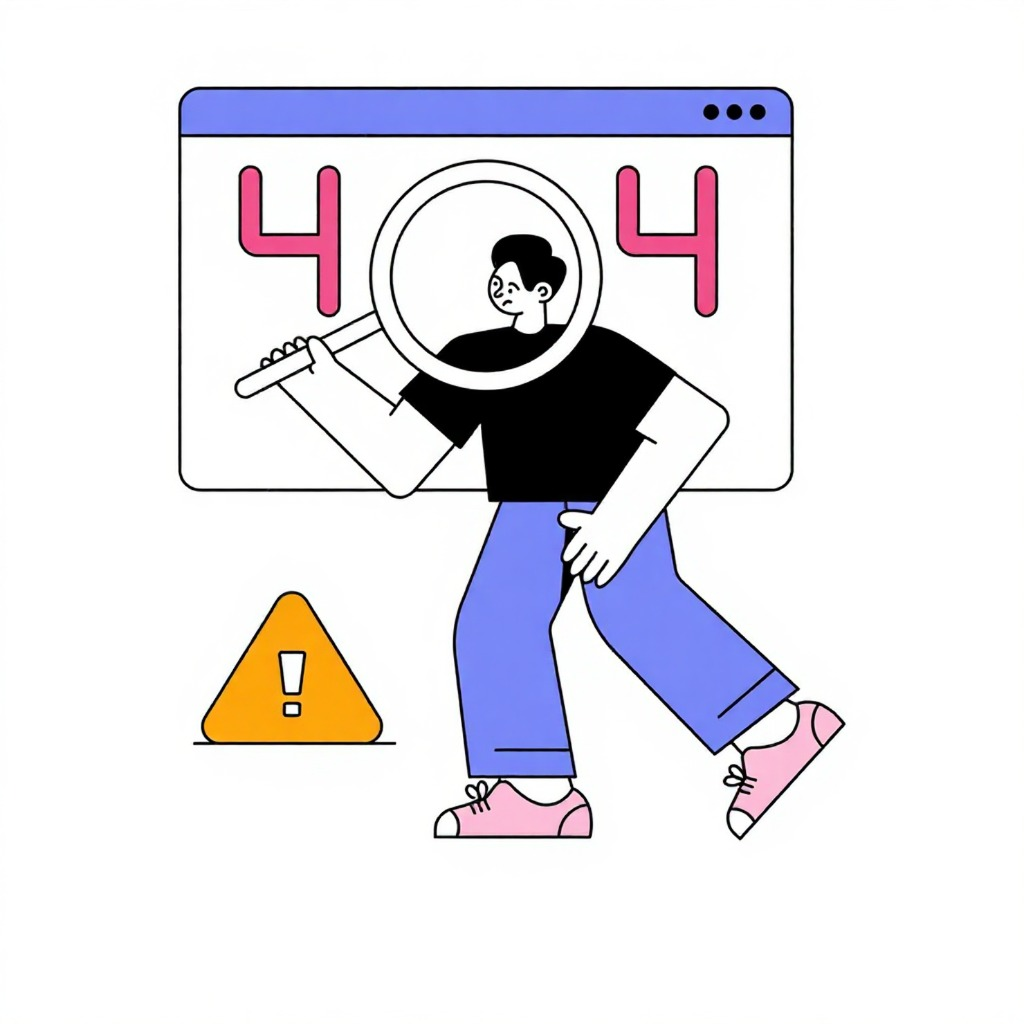
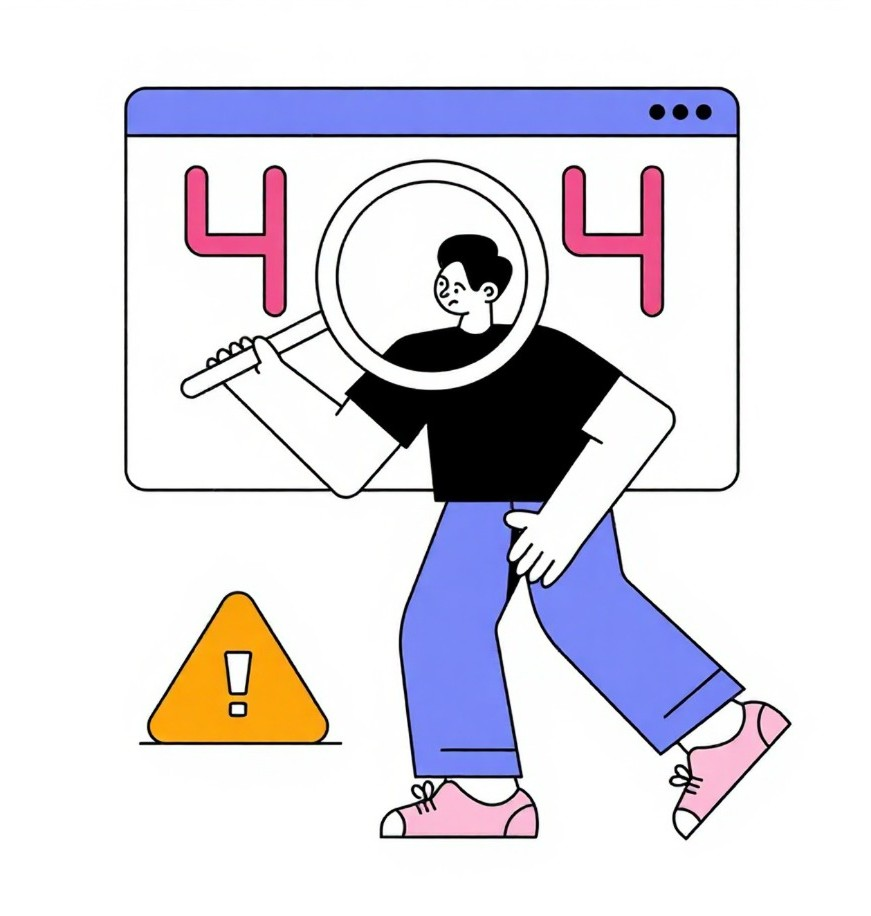
style: add a image in the 404 pages

Changed region(s): [[0.124, 0.0611, 0.93, 0.917]]

diff --git a/web/views/webstore/errors/404.php b/web/views/webstore/errors/404.php
@@ -12,10 +12,17 @@ $template = new Template(
 ?>
 
 <?php $template->start(); ?>
-<main style="display: flex; flex-flow: column; justify-content: center; align-items: center; height: 60vh;">
-    <div>
-        <h2>Oops, you reached a dead end</h2>
-        <p>Let's <a href="/">go back</a> shall we?</p>
+
+<main>
+    <div style="display:flex; align-items:center; justify-content:center; gap:40px;">
+        <div>
+            <h2>Oops, you reached a dead end</h2>
+            <p>Let's <a href="/">go back</a> shall we?</p>
+        </div>
+        <div>
+            <img src="/static/assets/404-illustration.jpg" alt="404"
+                 style="max-width:350px; width:100%;">
+        </div>
     </div>
 </main>
 <?= $template->end(); ?>
